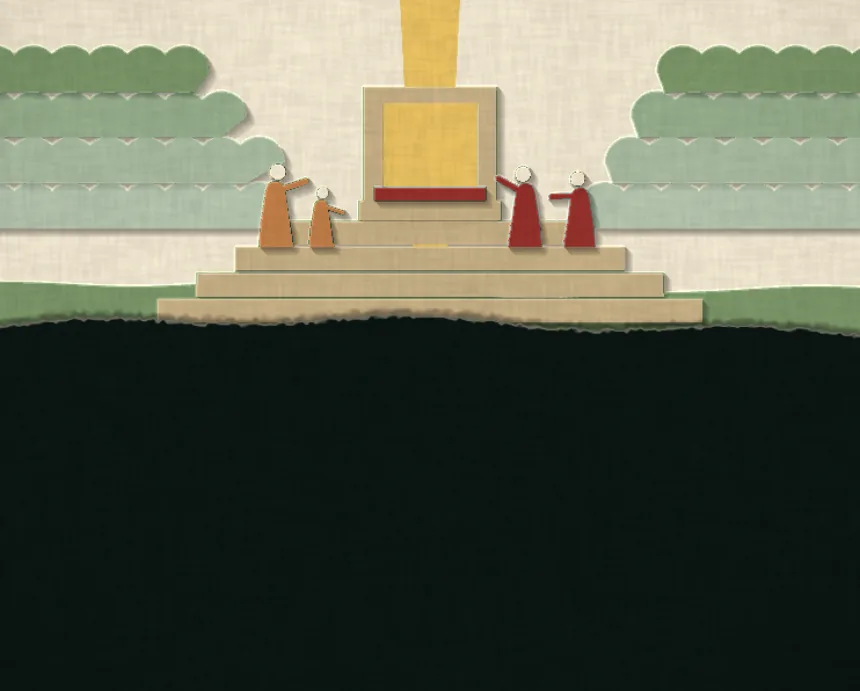
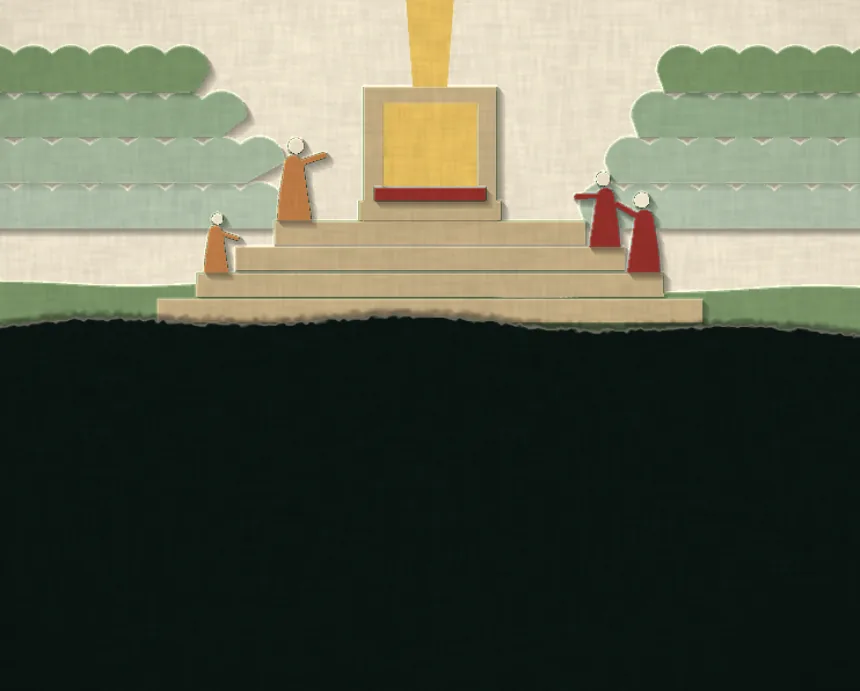
Draw a real sword and smooth the climb in Hebrews 4
Movement III's thin gold strip read as a beam and left the view, so it
is now a two-edged sword that stays planted beside the person it
uncovered. In IV people snapped from step to step and appeared from
nowhere; they now walk in from the sides and climb smoothly, and the
light no longer shows between the steps.

diff --git a/components/scenes/three/scenes/PaperScenes.tsx b/components/scenes/three/scenes/PaperScenes.tsx
@@ -5,7 +5,6 @@ import { PaperStack } from "../primitives/Paper";
 import {
   ascent,
   bird,
-  blade,
   cairn,
   cloud,
   dayMark,
@@ -21,6 +20,7 @@ import {
   road,
   steps,
   sun,
+  sword,
   thicket,
   throne,
   today,
@@ -148,18 +148,18 @@ export function JordanScene({ mobile, effects }: SceneProps) {
 }
 
 function paintSword(t: number) {
-  sun(800, 210, 30);
+  const x = 800;
+  sun(1330, 300, 34);
   hills(2.1, 430, 56, LAYER.far);
   hills(1.3, 530, 20, LAYER.grass);
   const fall = smoothstep(4.8, 9, t);
-  person(800, FLOOR, 190, { arm: 0.4 });
-  thicket(800, -1, fall);
-  thicket(800, 1, fall);
-  const down = smoothstep(2.6, 4.6, t) * (1 - smoothstep(6, 7.6, t));
-  if (down > 0) blade(800, -120 + down * 800);
+  person(1040, FLOOR, 190, { face: -1, arm: 0.4 });
+  thicket(x, -1, fall);
+  thicket(x, 1, fall);
+  sword(x, -200 + smoothstep(2.6, 4.7, t) * 800);
 }
 
-/** Verses 12–13: a two-edged blade comes down and cuts the thicket open, the halves fall away, and the one hiding inside stands in plain light. */
+/** Verses 12–13: a two-edged sword drives down and cuts the thicket open, the halves fall away, and the one hiding inside stands in plain light. */
 export function SwordScene({ mobile, effects }: SceneProps) {
   return (
     <PaperStack
@@ -172,9 +172,27 @@ export function SwordScene({ mobile, effects }: SceneProps) {
   );
 }
 
+const RISE = 40;
+const TREAD = 60;
+const STEPS = 4;
+
+/** Walks in from off the cloth along the ground, then climbs `up` steps; each step lifts smoothly. */
+function climb(side: number, up: number, k: number) {
+  const walk = smoothstep(0, 0.46, k);
+  const base = 450;
+  const climbed = Math.max(0, (k - 0.46) / 0.54) * up;
+  const step = Math.min(Math.floor(climbed), up - 1);
+  const part = Math.min(climbed - step, 1);
+  const lift = smoothstep(0, 1, part);
+  const moved = step + lift;
+  return {
+    x: 800 + side * (base + (1 - walk) * 620 - moved * TREAD),
+    y: FLOOR - moved * RISE - Math.sin(part * Math.PI) * 9,
+  };
+}
+
 function paintMercy(t: number) {
   const x = 800;
-  const rise = 40;
   hills(0.9, 570, 34, LAYER.grass);
   const part = smoothstep(1, 6, t);
   cloud(400, LAYER.far, 40 + part * 200, x);
@@ -182,24 +200,28 @@ function paintMercy(t: number) {
   cloud(260, LAYER.hill, 40 + part * 280, x);
   cloud(190, LAYER.hill + 0.08, 40 + part * 320, x);
   const up = smoothstep(0.8, 6.4, t);
-  ascent(x, 500, 500 - up * 620, 18 + part * 40);
-  steps(x, FLOOR, 4);
-  throne(x, FLOOR - 4 * rise, 0.86);
-  const climb = smoothstep(6.5, 12.6, t);
-  const climbers: readonly (readonly [number, number, number, number])[] = [
-    [-340, 0, 128, 0.62],
-    [330, 0.22, 116, 0.46],
-    [-240, 0.4, 92, 0.34],
-    [210, 0.55, 124, 0.7],
+  const base = FLOOR - STEPS * RISE;
+  ascent(x, base - 200, base - 200 - up * 420, 18 + part * 40);
+  steps(x, FLOOR, STEPS);
+  throne(x, base, 0.86);
+  const climbers: readonly (readonly [
+    number,
+    number,
+    number,
+    number,
+    number,
+    number,
+  ])[] = [
+    [-1, 4, 3.4, 8.6, 128, 0.62],
+    [1, 3, 4.6, 9.6, 116, 0.46],
+    [-1, 2, 6, 10.8, 92, 0.34],
+    [1, 2, 7.2, 12, 124, 0.7],
   ];
-  climbers.forEach(([d, start, h, arm], i) => {
-    if (climb <= start) return;
-    const k = (climb - start) / (1 - start);
-    person(x + d * (1 - k * 0.3), FLOOR - Math.floor(k * 3) * rise, h, {
-      face: d < 0 ? 1 : -1,
-      arm,
-      tint: i % 2,
-    });
+  climbers.forEach(([side, count, from, to, h, arm], i) => {
+    const k = Math.min(1, Math.max(0, (t - from) / (to - from)));
+    if (k <= 0) return;
+    const at = climb(side, count, k);
+    person(at.x, at.y, h, { face: -side, arm, tint: i % 2 });
   });
 }
 

diff --git a/content/hebrews/4.ts b/content/hebrews/4.ts
@@ -557,13 +557,13 @@ const MV: Movement[] = [
     num: "III",
     range: "12–13",
     scene: "sword",
-    art: "3D · R3F — cut paper in daylight. Someone stands hidden inside a dark thicket. A two-edged blade comes down and cuts it open, the halves fall away, and the one standing there is in plain light.",
+    art: "3D · R3F — cut paper in daylight. Someone stands hidden inside a dark thicket. A two-edged sword drives down and cuts it open, the halves fall away, and the one standing there is in plain light.",
     en: {
       title: "Living and active",
       quote:
         "“For the word of God is living and active, sharper than any two-edged sword.”",
       sref: "Hebrews 4:12",
-      cap: "Scene: a two-edged blade cuts the thicket open. Nothing stays hidden.",
+      cap: "Scene: a two-edged sword cuts the thicket open. Nothing stays hidden.",
       snips: [
         "The word of God is living and active, sharper than any two-edged sword",
         "All are naked and exposed to the eyes of him to whom we must give account",
@@ -793,7 +793,7 @@ const MV: Movement[] = [
     num: "IV",
     range: "14–16",
     scene: "mercy",
-    art: "3D · R3F — cut paper in daylight. Light passes up through layer after layer of cloud as the heavens part. The seat of the throne holds light alone, and people climb the broad steps to it unafraid. Christ is shown only as light, with no human outline.",
+    art: "3D · R3F — cut paper in daylight. Light passes up through layer after layer of cloud as the heavens part. The seat of the throne holds light alone, and people walk up the broad steps to it unafraid. Christ is shown only as light, with no human outline.",
     en: {
       title: "Draw near to the throne of grace",
       quote: "“Let us then with confidence draw near to the throne of grace.”",

diff --git a/components/scenes/three/primitives/paperArt.ts b/components/scenes/three/primitives/paperArt.ts
@@ -319,16 +319,36 @@ export function thicket(cx: number, d: number, fall: number) {
   g.restore();
 }
 
-/** A tapering two-edged blade coming down from above; `reach` is the y of its point. */
-export function blade(x: number, reach: number) {
-  fill(col(0, 0, 1));
+/** A two-edged sword point down, its tip at (x, tip): a ridged blade under a crossguard, grip and pommel. */
+export function sword(x: number, tip: number) {
+  const half = 34;
+  const guard = tip - 300;
+  fill(col(LAYER.cream));
   poly([
-    [x - 11, -120],
-    [x + 11, -120],
-    [x + 11, reach - 46],
-    [x, reach],
-    [x - 11, reach - 46],
+    [x - half, guard],
+    [x, guard],
+    [x, tip],
+    [x - half * 0.3, tip - 60],
+    [x - half, tip - 96],
   ]);
+  fill(col(LAYER.cream, 0.5));
+  poly([
+    [x, guard],
+    [x + half, guard],
+    [x + half, tip - 96],
+    [x + half * 0.3, tip - 60],
+    [x, tip],
+  ]);
+  fill(col(LAYER.deep));
+  rect(x - 3, guard, 6, 214);
+  fill(col(0, 0, 1));
+  rect(x - 94, guard - 16, 188, 22);
+  dot(x - 94, guard - 5, 15);
+  dot(x + 94, guard - 5, 15);
+  fill(col(LAYER.robe, 1));
+  rect(x - 13, guard - 76, 26, 62);
+  fill(col(0, 0, 1));
+  dot(x, guard - 88, 21);
 }
 
 export function cloud(y: number, v: number, gap: number, cx: number) {
